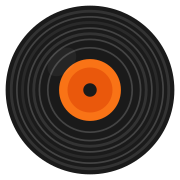
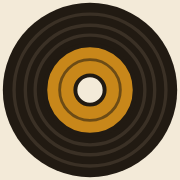
design(ascii-dub): 45rpm soundsystem label direction
Restyle dub-rip as a vintage 45rpm record label: aged cream and deep
ink palette with a single label-gold accent, Archivo Black wordmark,
gold-labeled ASCII vinyl, record-sleeve card with stamped mono
marginalia, ruled CUT: input, ink-block button, and gold cutting bar.
Regenerated favicon/OG brand assets as a 45 center-label mark.

diff --git a/src/routes/+page.svelte b/src/routes/+page.svelte
@@ -270,23 +270,39 @@ $effect(() => {
 		<!-- Header -->
 		<div class="flex flex-col items-center space-y-2 text-center">
 			<AsciiVinyl active={loading} />
-			<h1 class="font-mono text-4xl font-bold tracking-tight">dub-rip</h1>
+			<p class="font-mono text-[10px] uppercase tracking-[0.35em] text-muted-foreground">
+				DR-45-001 · SIDE A · 45 RPM
+			</p>
+			<div class="flex items-start justify-center gap-1">
+				<h1 class="font-display text-4xl uppercase leading-none tracking-tight">dub-rip</h1>
+				<span aria-hidden="true" class="mt-0.5 font-mono text-[10px]">®</span>
+			</div>
+			<p class="font-mono text-[11px] font-bold uppercase tracking-[0.3em] text-gold">
+				A dub plate special
+			</p>
 			<p class="text-sm text-muted-foreground">Download YouTube audio with rich metadata</p>
 		</div>
 
 		<!-- Main Card -->
-		<Card.Root class="p-6">
+		<Card.Root class="relative rounded-sm border border-border bg-card p-6 pb-8 shadow-none">
+			<span aria-hidden="true" class="absolute left-2 top-1.5 font-mono text-[10px] text-muted-foreground select-none">45</span>
+			<span aria-hidden="true" class="absolute right-2 top-1.5 font-mono text-[10px] text-muted-foreground select-none">℗ 2026</span>
+			<span aria-hidden="true" class="absolute bottom-1.5 left-2 font-mono text-[10px] text-muted-foreground select-none">DR-45-001</span>
+			<span aria-hidden="true" class="absolute bottom-1.5 right-2 font-mono text-[10px] text-muted-foreground select-none">STEREO</span>
 			<Card.Content class="space-y-4 p-0">
 				<!-- Input -->
-				<div class="space-y-2">
-					<Input
-						bind:value={url}
-						placeholder="Paste YouTube URL"
-						disabled={loading}
-						autofocus
-						onkeydown={(e) => e.key === "Enter" && !e.isComposing && isValidUrl && !loading && handleDownload()}
-						class="h-11"
-					/>
+				<div class="space-y-3">
+					<label class="flex items-baseline gap-2 border-b border-foreground/50 transition-colors duration-150 focus-within:border-gold">
+						<span class="font-mono text-[11px] font-bold tracking-[0.2em] text-muted-foreground select-none">CUT:</span>
+						<Input
+							bind:value={url}
+							placeholder="Paste YouTube URL"
+							disabled={loading}
+							autofocus
+							onkeydown={(e) => e.key === "Enter" && !e.isComposing && isValidUrl && !loading && handleDownload()}
+							class="h-11 rounded-none border-0 bg-transparent px-0 font-mono text-sm shadow-none placeholder:text-muted-foreground/60 dark:bg-transparent"
+						/>
+					</label>
 					<DownloadButton
 						loading={loading}
 						disabled={loading || !isValidUrl}
@@ -306,7 +322,7 @@ $effect(() => {
 
 				<!-- Error -->
 				{#if error}
-					<div class="rounded-md border border-destructive/20 bg-destructive/10 p-3">
+					<div class="rounded-sm border border-destructive/30 bg-destructive/10 p-3">
 						<p class="text-sm text-destructive">{error}</p>
 					</div>
 				{/if}
@@ -318,11 +334,19 @@ $effect(() => {
 							<p class="truncate text-sm font-medium">{videoTitle}</p>
 						{/if}
 
-						<p class="text-xs text-muted-foreground">{status}</p>
+						<p class="font-mono text-[11px] uppercase tracking-[0.2em] text-muted-foreground">
+							{status === "Downloading..."
+								? "Cutting…"
+								: status === "Saving..."
+									? "Stamping…"
+									: status === "Downloaded!"
+										? "Cut complete"
+										: status}
+						</p>
 
 						<div class="space-y-2">
-							<Progress value={roundedProgress} class="h-2" />
-							<div class="flex justify-between text-xs text-muted-foreground">
+							<Progress value={roundedProgress} class="h-2 rounded-none bg-foreground/15" />
+							<div class="flex justify-between font-mono text-[11px] text-muted-foreground">
 								<span>{roundedProgress}%</span>
 								<div class="flex gap-2">
 									{#if speed}<span>{speed}</span>{/if}
@@ -332,7 +356,7 @@ $effect(() => {
 						</div>
 
 						{#if downloadComplete && completedFilename}
-							<p class="truncate text-xs text-muted-foreground">{completedFilename}</p>
+							<p class="truncate font-mono text-[11px] text-muted-foreground">{completedFilename}</p>
 						{/if}
 					</div>
 				{/if}

diff --git a/src/lib/components/AsciiVinyl.svelte b/src/lib/components/AsciiVinyl.svelte
@@ -14,26 +14,34 @@ let rotation = $state(0);
 
 const SIZE = 35;
 const CENTER = Math.floor(SIZE / 2);
-const LABEL_RADIUS = 6.5;
-const SPINDLE_RADIUS = 1.7;
+const LABEL_RADIUS = 7.5;
+const SPINDLE_RADIUS = 2.4;
 const ASPECT_RATIO = 1.6;
 
-function generateVinyl(): string[] {
-	const lines: string[] = [];
+interface Segment {
+	text: string;
+	gold: boolean;
+}
+
+function generateVinyl(): Segment[][] {
+	const lines: Segment[][] = [];
 
 	for (let y = 0; y < SIZE; y++) {
-		let line = "";
+		const segments: Segment[] = [];
 		for (let x = 0; x < SIZE; x++) {
 			const dx = x - CENTER;
 			const dy = (y - CENTER) * ASPECT_RATIO;
 			const distance = Math.sqrt(dx * dx + dy * dy);
 			const angle = Math.atan2(dy, dx) + rotation;
 
+			let char: string;
+			let gold = false;
 			if (distance < SPINDLE_RADIUS) {
-				line += SPINDLE_CHAR;
+				char = SPINDLE_CHAR;
 			} else if (distance < LABEL_RADIUS) {
 				const labelPattern = Math.floor((angle * 2 + distance) % 2);
-				line += labelPattern === 0 ? LABEL_CHAR : "▓";
+				char = labelPattern === 0 ? LABEL_CHAR : "▓";
+				gold = true;
 			} else if (distance <= CENTER - 1) {
 				const grooveIndex = Math.floor(distance) % 2;
 				const charSet = grooveIndex === 0 ? VINYL_CHARS : GROOVE_CHARS;
@@ -42,14 +50,21 @@ function generateVinyl(): string[] {
 				);
 				const angleIndex =
 					((rawIndex % charSet.length) + charSet.length) % charSet.length;
-				line += charSet[angleIndex];
+				char = charSet[angleIndex];
 			} else if (distance <= CENTER) {
-				line += "○";
+				char = "○";
 			} else {
-				line += " ";
+				char = " ";
+			}
+
+			const last = segments[segments.length - 1];
+			if (last && last.gold === gold) {
+				last.text += char;
+			} else {
+				segments.push({ text: char, gold });
 			}
 		}
-		lines.push(line);
+		lines.push(segments);
 	}
 
 	return lines;
@@ -69,6 +84,7 @@ function animate(time: number) {
 }
 
 $effect(() => {
+	if (window.matchMedia?.("(prefers-reduced-motion: reduce)").matches) return;
 	animationFrame = requestAnimationFrame(animate);
 	return () => cancelAnimationFrame(animationFrame);
 });
@@ -78,5 +94,11 @@ let vinylLines = $derived(generateVinyl());
 
 <pre
 	aria-hidden="true"
-	class="font-mono text-[0.53rem] leading-[0.45rem] {active ? 'text-primary scale-105' : 'text-muted-foreground'} transition-all duration-300 select-none sm:text-[0.64rem] sm:leading-[0.54rem]"
->{vinylLines.join("\n")}</pre>
+	class="font-mono text-[0.53rem] leading-[0.45rem] {active ? 'text-primary scale-105' : 'text-foreground/80'} transition-[transform,color] duration-300 ease-out select-none sm:text-[0.64rem] sm:leading-[0.54rem]"
+>{#each vinylLines as line, i}{#if i > 0}{"\n"}{/if}{#each line as segment}{#if segment.gold}<span class="label-gold">{segment.text}</span>{:else}{segment.text}{/if}{/each}{/each}</pre>
+
+<style>
+	.label-gold {
+		color: hsl(var(--gold));
+	}
+</style>

diff --git a/src/app.css b/src/app.css
@@ -4,48 +4,53 @@
 
 @layer base {
 	:root {
-		--background: 0 0% 100%;
-		--foreground: 222.2 84% 4.9%;
-		--card: 0 0% 100%;
-		--card-foreground: 222.2 84% 4.9%;
-		--popover: 0 0% 100%;
-		--popover-foreground: 222.2 84% 4.9%;
-		--primary: 222.2 47.4% 11.2%;
-		--primary-foreground: 210 40% 98%;
-		--secondary: 210 40% 96.1%;
-		--secondary-foreground: 222.2 47.4% 11.2%;
-		--muted: 210 40% 96.1%;
-		--muted-foreground: 215.4 16.3% 46.9%;
-		--accent: 210 40% 96.1%;
-		--accent-foreground: 222.2 47.4% 11.2%;
-		--destructive: 0 84.2% 60.2%;
-		--destructive-foreground: 210 40% 98%;
-		--border: 214.3 31.8% 91.4%;
-		--input: 214.3 31.8% 91.4%;
-		--ring: 222.2 84% 4.9%;
-		--radius: 0.5rem;
+		--background: 40 53% 90%;
+		--foreground: 32 29% 10%;
+		--card: 42 52% 93%;
+		--card-foreground: 32 29% 10%;
+		--popover: 42 52% 93%;
+		--popover-foreground: 32 29% 10%;
+		--primary: 32 29% 10%;
+		--primary-foreground: 40 53% 90%;
+		--secondary: 40 35% 84%;
+		--secondary-foreground: 32 29% 10%;
+		--muted: 40 35% 84%;
+		--muted-foreground: 32 18% 34%;
+		--accent: 38 77% 44%;
+		--accent-foreground: 32 29% 10%;
+		--destructive: 7 64% 38%;
+		--destructive-foreground: 40 53% 90%;
+		--border: 32 29% 10%;
+		--input: 32 29% 10%;
+		--ring: 38 77% 44%;
+		--gold: 38 77% 44%;
+		--stamp-red: 7 64% 38%;
+		--radius: 0.125rem;
+		--ease-out-strong: cubic-bezier(0.23, 1, 0.32, 1);
 	}
 
 	.dark {
-		--background: 222.2 84% 4.9%;
-		--foreground: 210 40% 98%;
-		--card: 222.2 84% 4.9%;
-		--card-foreground: 210 40% 98%;
-		--popover: 222.2 84% 4.9%;
-		--popover-foreground: 210 40% 98%;
-		--primary: 210 40% 98%;
-		--primary-foreground: 222.2 47.4% 11.2%;
-		--secondary: 217.2 32.6% 17.5%;
-		--secondary-foreground: 210 40% 98%;
-		--muted: 217.2 32.6% 17.5%;
-		--muted-foreground: 215 20.2% 65.1%;
-		--accent: 217.2 32.6% 17.5%;
-		--accent-foreground: 210 40% 98%;
-		--destructive: 0 62.8% 30.6%;
-		--destructive-foreground: 210 40% 98%;
-		--border: 217.2 32.6% 17.5%;
-		--input: 217.2 32.6% 17.5%;
-		--ring: 212.7 26.8% 83.9%;
+		--background: 26 18% 8%;
+		--foreground: 40 40% 88%;
+		--card: 26 16% 10%;
+		--card-foreground: 40 40% 88%;
+		--popover: 26 16% 10%;
+		--popover-foreground: 40 40% 88%;
+		--primary: 40 40% 88%;
+		--primary-foreground: 26 18% 8%;
+		--secondary: 28 14% 16%;
+		--secondary-foreground: 40 40% 88%;
+		--muted: 28 14% 16%;
+		--muted-foreground: 38 18% 62%;
+		--accent: 38 72% 50%;
+		--accent-foreground: 26 18% 8%;
+		--destructive: 7 58% 46%;
+		--destructive-foreground: 40 40% 88%;
+		--border: 40 40% 88%;
+		--input: 40 40% 88%;
+		--ring: 38 72% 50%;
+		--gold: 38 72% 50%;
+		--stamp-red: 7 58% 46%;
 	}
 }
 
@@ -55,5 +60,11 @@
 	}
 	body {
 		@apply bg-background text-foreground;
+	}
+	button:not(:disabled),
+	[role="button"]:not([aria-disabled="true"]),
+	label[for],
+	summary {
+		cursor: pointer;
 	}
 }

diff --git a/src/app.html b/src/app.html
@@ -17,13 +17,15 @@
 		<meta charset="utf-8" />
 		<link rel="preconnect" href="https://fonts.googleapis.com" />
 		<link rel="preconnect" href="https://fonts.gstatic.com" crossorigin />
-		<link href="https://fonts.googleapis.com/css2?family=JetBrains+Mono:wght@400;700&display=swap" rel="stylesheet" />
+		<link href="https://fonts.googleapis.com/css2?family=Archivo+Black&family=JetBrains+Mono:wght@400;700&display=swap" rel="stylesheet" />
 		<link rel="apple-touch-icon" sizes="180x180" href="/apple-touch-icon.png" />
 		<link rel="icon" type="image/svg+xml" href="/favicon.svg" />
 		<link rel="icon" type="image/png" sizes="32x32" href="/favicon-32x32.png" />
 		<link rel="icon" type="image/png" sizes="16x16" href="/favicon-16x16.png" />
 		<link rel="manifest" href="/site.webmanifest" />
 		<meta name="viewport" content="width=device-width, initial-scale=1" />
+		<meta name="theme-color" media="(prefers-color-scheme: light)" content="#f3ead8" />
+		<meta name="theme-color" media="(prefers-color-scheme: dark)" content="#171310" />
 		<meta name="description" content="Download YouTube audio with rich metadata" />
 		%sveltekit.head%
 	</head>

diff --git a/src/lib/components/VideoPreview.svelte b/src/lib/components/VideoPreview.svelte
@@ -22,8 +22,8 @@ function handleArtworkError() {
 }
 </script>
 
-<div class="preview-card flex items-center gap-3 rounded-md border bg-muted/50 p-3">
-	<div class="relative h-12 w-12 flex-shrink-0 overflow-hidden rounded bg-muted">
+<div class="preview-card flex items-center gap-3 rounded-sm border border-foreground/40 bg-secondary/40 p-3">
+	<div class="relative h-12 w-12 flex-shrink-0 overflow-hidden rounded-sm bg-muted">
 		<img
 			src={imageSrc}
 			alt={preview.title}
@@ -36,7 +36,7 @@ function handleArtworkError() {
 	</div>
 	<div class="min-w-0 flex-1 space-y-0.5">
 		<p class="truncate text-sm font-medium">{preview.title || preview.videoTitle}</p>
-		<div class="flex items-center gap-2 text-xs text-muted-foreground">
+		<div class="flex items-center gap-2 font-mono text-[11px] text-muted-foreground">
 			{#if preview.artist}
 				<span class="truncate">{preview.artist}</span>
 			{/if}

diff --git a/src/lib/components/PreviewSkeleton.svelte b/src/lib/components/PreviewSkeleton.svelte
@@ -1,7 +1,7 @@
-<div class="flex items-center gap-3 p-3 rounded-md border bg-muted/50 animate-pulse" data-testid="preview-skeleton">
-	<div class="w-12 h-12 rounded bg-muted flex-shrink-0"></div>
+<div class="flex items-center gap-3 p-3 rounded-sm border border-foreground/40 bg-secondary/40 animate-pulse motion-reduce:animate-none" data-testid="preview-skeleton">
+	<div class="w-12 h-12 rounded-sm bg-muted flex-shrink-0"></div>
 	<div class="flex-1 min-w-0 space-y-2">
-		<div class="h-4 bg-muted rounded w-3/4"></div>
-		<div class="h-3 bg-muted rounded w-1/2"></div>
+		<div class="h-4 bg-muted rounded-sm w-3/4"></div>
+		<div class="h-3 bg-muted rounded-sm w-1/2"></div>
 	</div>
 </div>

diff --git a/src/lib/components/DownloadButton.svelte b/src/lib/components/DownloadButton.svelte
@@ -11,9 +11,13 @@ interface Props {
 let { loading, disabled, onClick }: Props = $props();
 </script>
 
-<Button onclick={onClick} disabled={disabled} class="w-full h-11">
+<Button
+	onclick={onClick}
+	disabled={disabled}
+	class="h-11 w-full rounded-sm bg-primary font-mono text-xs font-bold uppercase tracking-[0.25em] text-primary-foreground shadow-none transition-[transform,color] duration-150 ease-out hover:bg-primary hover:text-gold active:scale-[0.98] motion-reduce:active:scale-100"
+>
 	{#if loading}
-		<Loader2 class="mr-2 h-4 w-4 animate-spin" />
+		<Loader2 class="mr-2 h-4 w-4 animate-spin motion-reduce:hidden" />
 		Downloading
 	{:else}
 		Download

diff --git a/tailwind.config.js b/tailwind.config.js
@@ -48,6 +48,8 @@ export default {
 					DEFAULT: "hsl(var(--card) / <alpha-value>)",
 					foreground: "hsl(var(--card-foreground) / <alpha-value>)",
 				},
+				gold: "hsl(var(--gold) / <alpha-value>)",
+				stamp: "hsl(var(--stamp-red) / <alpha-value>)",
 			},
 			borderRadius: {
 				lg: "var(--radius)",
@@ -57,6 +59,7 @@ export default {
 			fontFamily: {
 				sans: [...fontFamily.sans],
 				mono: ['"JetBrains Mono"', ...fontFamily.mono],
+				display: ['"Archivo Black"', ...fontFamily.sans],
 			},
 		},
 	},

diff --git a/src/lib/components/ui/progress/progress.svelte b/src/lib/components/ui/progress/progress.svelte
@@ -21,7 +21,7 @@ let {
 >
 	<div
 		data-slot="progress-indicator"
-		class="bg-primary h-full w-full flex-1 transition-all"
+		class="bg-gold h-full w-full flex-1 transition-transform duration-200 ease-out"
 		style="transform: translateX(-{100 - (100 * (value ?? 0)) / (max ?? 1)}%)"
 	></div>
 </ProgressPrimitive.Root>

diff --git a/tests/unit/components/ascii-vinyl.test.ts b/tests/unit/components/ascii-vinyl.test.ts
@@ -135,7 +135,7 @@ describe("AsciiVinyl", () => {
 			const pre = container.querySelector("pre");
 
 			// #then
-			expect(pre).toHaveClass("transition-all");
+			expect(pre).toHaveClass("transition-[transform,color]");
 		});
 
 		it("disables text selection", () => {
